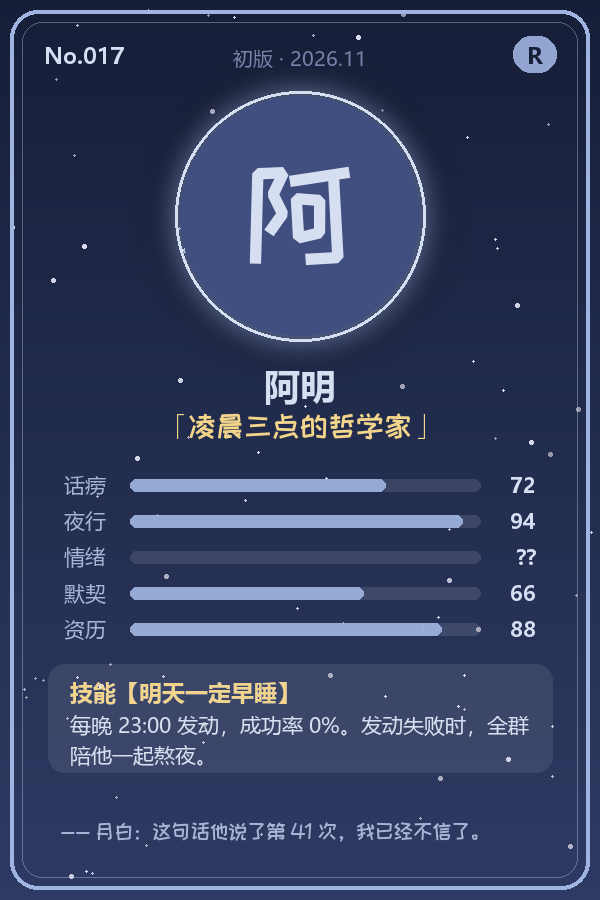
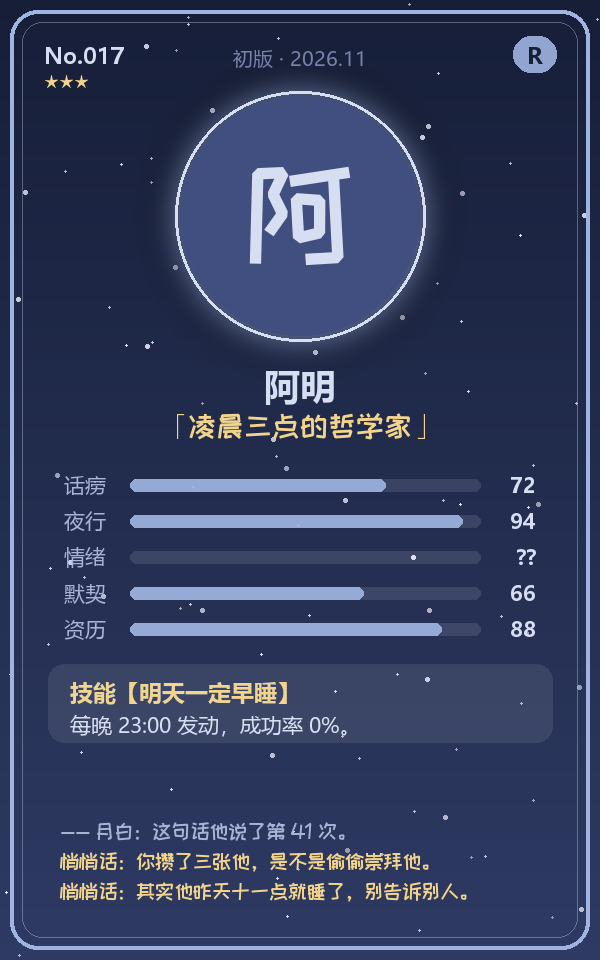
docs(plugins): 群友图鉴第二期——三种卡、心情与保底、送卡交换、升星
- 新增名场面识别规则、心情卡节奏、心情对出率的影响与限量卡的发放方式
- 送卡/交换/升星的用法与成交规则；隐私边界补充名场面与退出
- 预览图换成三星卡，新增名场面卡预览（均为演示数据）

diff --git a/extensions/gacha.md b/extensions/gacha.md
@@ -1,8 +1,8 @@
 # 群友图鉴插件
 
-她给群里的每个人画一张收藏卡，大家每天抽一张、慢慢集齐。卡面上的称号、技能和批注是她自己写的，属性来自真实的聊天数据，所以被画的人会想截图，没被画到的人会想多聊两句。
+她给群里的每个人画一张收藏卡，大家每天抽一张、慢慢集齐，还能互相送、互相换。卡面上的称号、技能和批注是她自己写的，属性来自真实的聊天数据；群里热闹的名场面会被她做成限量卡。所以被画的人会想截图，没被画到的人会想多聊两句。
 
-![群友收藏卡预览，全部为演示数据](/gacha-card-preview.png)
+![群友收藏卡预览（三星，带两句悄悄话），全部为演示数据](/gacha-card-preview.png)
 
 外部插件位于 `plugins/gacha/`（`plugins/` Git submodule），需要 Sirius Pulse **1.3.0+**。插件默认启用（不想要可以在 WebUI 的插件管理里关掉「**群友图鉴**」），所有群成员都能玩，私聊里不能玩。
 
@@ -10,21 +10,43 @@
 
 | 指令 | 行为 |
 | --- | --- |
-| `/抽卡` | 抽一张本群群友的卡，附上她的一句台词；每人每天 `draws_per_day` 次（默认 1），按中国时间的自然日重置 |
-| `/图鉴` | 一张图展示你在本群的收集进度，没抽到的卡是问号 |
+| `/抽卡` | 抽一张本群的卡，附上她的一句台词；每人每天 `draws_per_day` 次（默认 1），按中国时间的自然日重置 |
+| `/图鉴` | 一张图展示你在本群的收集进度，没抽到的卡是问号（限量卡会标出还剩几份） |
 | `/卡 <名字或编号>` | 看一张你已经抽到的卡（`/卡 阿明`、`/卡 17`）；没抽到的不能偷看 |
+| `/送卡 <人> <编号>` | 把一份卡送给群友，`<人>` 可以写名字，也可以直接 @ |
+| `/交换 <人> <我的编号> <他的编号>` | 提出换卡（`/交换 @小红 17 换 32`），对方 10 分钟内发 `/同意交换` 或 `/拒绝交换` |
+| `/升星 <编号>` | 用一份重复的卡把这张升一星（最多 3 星），她会在你那张上多写一句只给你的「悄悄话」 |
 | `/我的卡` | 看她给你画的那张 |
-| `/我的卡 退出` | 不想被画进图鉴：你的卡连同大家手里的那几张一起删掉，以后也不再画你 |
+| `/我的卡 退出` | 不想被画进图鉴：画了你的卡（包括你出演的名场面）连同大家手里的那几张一起删掉，以后也不再画你 |
 | `/我的卡 加入` | 回到图鉴，之后她会重新给你画一张 |
 
 ![图鉴预览，全部为演示数据](/gacha-collection-preview.png)
+
+## 三种卡
+
+| 稀有度 | 卡 | 怎么来 |
+| --- | --- | --- |
+| **R** | 常驻卡 | 每个够格的群友一张 |
+| **SR** | 心情卡 | 她心情好的时候，给已经有卡的人随手再画一张，换一个角度写；每个群每天最多一张，同一个人 30 天内最多一张 |
+| **UR** | 名场面卡 | 群里一段很多人一起接梗、情绪很高的十分钟，她觉得值得，就做成引用一句原话的卡；**限量** `moment_supply` 份（默认 3），每个群一周最多一张 |
+
+SSR 留给生日、周年这类事件卡，会在后续版本里出现。
+
+![名场面卡预览，全部为演示数据](/gacha-moment-preview.png)
+
+### 名场面怎么认出来
+
+后台每次心跳在近 24 小时的认知事件里找一段十分钟：至少 12 条消息、至少 3 个人开口，按"消息数 ×（0.5 + 平均唤醒度）"挑最热闹的那段。然后把那段时间里**本群**的原话（跳过指令、跳过退出图鉴的人）交给她判断：普通闲聊、吵架、刷屏不算，好笑的、翻车的、一起接梗的才算。算的话她选出最有代表性的一句的**编号**，卡上引用的是那句原话本身，不是她改写的；出演名单就是那段里开口的人。
+
+每个群每天最多判断一次（找到候选才算一次，判断失败也不在每次心跳上重试）。
 
 ## 一张卡怎么来
 
 - **谁会被画**：在这个群里说过至少 `min_messages` 句话（默认 20）、没有退出的人。她自己不在卡池里。
 - **在哪些群画**：只在有人 `/抽卡` 过的群里画。插件默认启用，没人玩的群不会被画、也不花模型调用。
-- **什么时候画**：后台每约 10 分钟画一次，每次最多 `cards_per_beat` 张（默认 2），整个人格每天最多 `cards_per_day` 张（默认 20），最活跃的人先画。每张卡一次模型调用（任务名 `plugin_generate`，带人设）；写坏的卡面整张丢弃，那个人等下一次再画。一个群第一次 `/抽卡` 时卡池还是空的，会当场先画一张。
-- **抽卡不花模型调用**：台词是模板，卡面是本地 Pillow 画的 600×900 PNG，头像用群友公开的 QQ 头像（缓存一周，拿不到就画名字的第一个字）。
+- **什么时候画**：后台每约 10 分钟一次心跳，先给还没有卡的人画常驻卡，再看心情画心情卡，最后找名场面；每次心跳最多 `cards_per_beat` 张（默认 2），整个人格每天最多 `cards_per_day` 张（默认 20，三种卡合计）。每张一次模型调用（任务名 `plugin_generate`，带人设）；写坏的卡面整张丢弃，下次再画。一个群第一次 `/抽卡` 时卡池还是空的，会当场先画一张。
+- **抽卡的花费**：抽到 R 时台词是模板，不调用模型；抽到 SR 以上时她会亲口说一句（一次模型调用，没写成就只用模板台词）。卡面是本地 Pillow 画的 PNG，头像用群友公开的 QQ 头像（缓存一周，拿不到就画名字的第一个字）。
+- **升星**：一次模型调用写那句悄悄话；没写成就不扣卡。
 
 ### 属性
 
@@ -36,24 +58,33 @@
 | 默契 | 和她的互动程度（`engagement_rate`） |
 | 资历 | 从第一次在本群说话到现在，满一年拉满 |
 
-夜行和情绪需要至少 10 条认知事件，不够时卡面画成 `??`。
+夜行和情绪需要至少 10 条认知事件，不够时卡面画成 `??`。名场面卡没有属性。
+
+## 稀有度、心情与保底
+
+出率 R 75%、SR 20%、SSR 4.5%、UR 0.5%，第 40 抽保底 SSR 以上。某个稀有度在卡池里还没有卡（或者限量卡已经发完）时，结果落到最近一档抽得到的稀有度，保底继续累计；卡池里真的有抽得到的 SSR 以上时，抽卡回复才会提示距离保底还有几抽。
+
+**她心情好的时候**（情绪效价 ≥ 0.45，基线是 0.2）大家手气也好一点：SR、SSR、UR 的出率都乘以 1.2，多出来的从 R 里扣，抽卡回复会带上一句"今天我心情好，手气给你们调高了一点"。
+
+限量卡在发卡的同一个事务里占名额：两个人同时抽到最后一份时，晚到的那位会换一张重抽，不扣次数。
+
+## 送卡与交换
+
+- 送卡和交换都只在本群里进行，`<人>` 只在本群认识的人里找：名字、群昵称，或者 @ 出来的 `qq_号`；有歧义时会请你换个说法。
+- 交换要对方 10 分钟内 `/同意交换` 才成交。成交时双方各交出一份、各收到一份，在同一个事务里完成；如果某一方在这期间把那张卡送走了，整笔作废，谁也不少一张。同一对人之间只保留最新的一份交换。
 
 ## 隐私边界
 
-- **卡池按群隔离**：同一个人在两个群里是两张不同的卡。写卡面的材料只有这个人在**本群**的公开发言（跳过 `/` `#` `!` 开头的指令），私聊和别的群的话不会进去。
+- **卡池按群隔离**：同一个人在两个群里是两张不同的卡。写卡面的材料只有这个人在**本群**的公开发言（跳过 `/` `#` `!` 开头的指令），私聊和别的群的话不会进去；名场面也只取本群那十分钟里的原话。
 - 写卡的提示词禁止拿外貌、身材、性别、地域、疾病、家庭、收入开玩笑，也不许编造没发生的事。
-- 本人随时 `/我的卡 退出`，卡会从所有人的收藏里删掉。
-
-## 稀有度与保底
-
-出率表是完整的（R 75%、SR 20%、SSR 4.5%、UR 0.5%，第 40 抽保底 SSR 以上），但第一期卡池里只有 **R 常驻卡**：某个稀有度还没有卡时，结果会落到最近一档有卡的稀有度，保底继续累计。SR 心情卡、SSR 事件卡和 UR 名场面卡会在后续版本里由她自己发行；卡池里真的有 SSR 以上时，抽卡回复才会提示距离保底还有几抽。
+- 本人随时 `/我的卡 退出`：画了他的常驻卡、心情卡，以及他出演的名场面卡，都会从所有人的收藏里删掉；他之后说的话也不再进名场面的材料。
 
 ## 数据
 
 ```
 {persona}/artifacts/gacha/
-├── gacha.db        # 卡池、收藏、每日抽卡记录与保底、退出名单（SQLite）
+├── gacha.db        # 卡池、收藏（份数、星级、悄悄话）、每日抽卡与保底、交换、退出名单（SQLite）
 └── avatars/        # 群友 QQ 头像缓存，一周过期
 ```
 
-每日画卡额度记在插件数据文件 `_plugin_gacha_data.json` 的 `mint_ledger` 里。
+每日画卡额度（`mint_ledger`）和每个群当天是否判断过名场面（`moment_checks`）记在插件数据文件 `_plugin_gacha_data.json` 里。第一期留下的 `gacha.db` 打开时会自动补上新列，已有的卡都按常驻卡处理。
